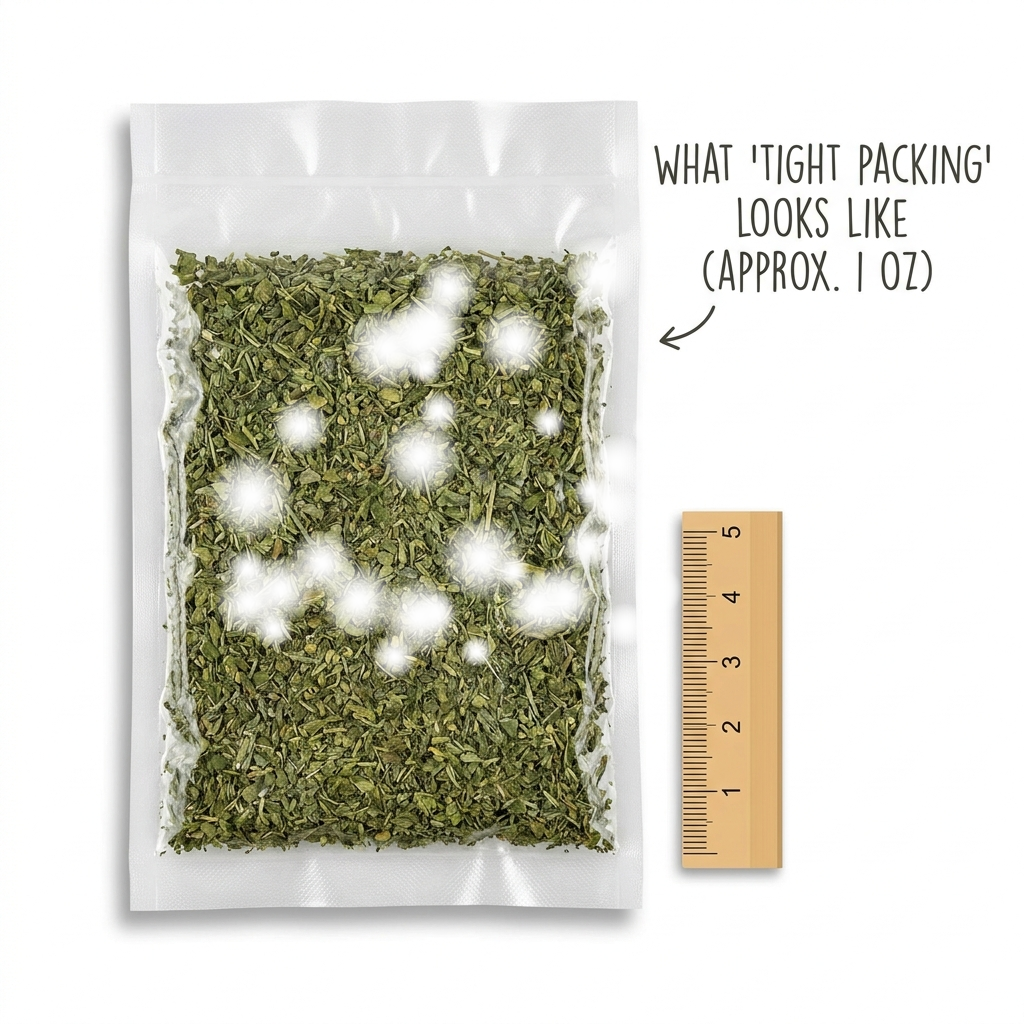
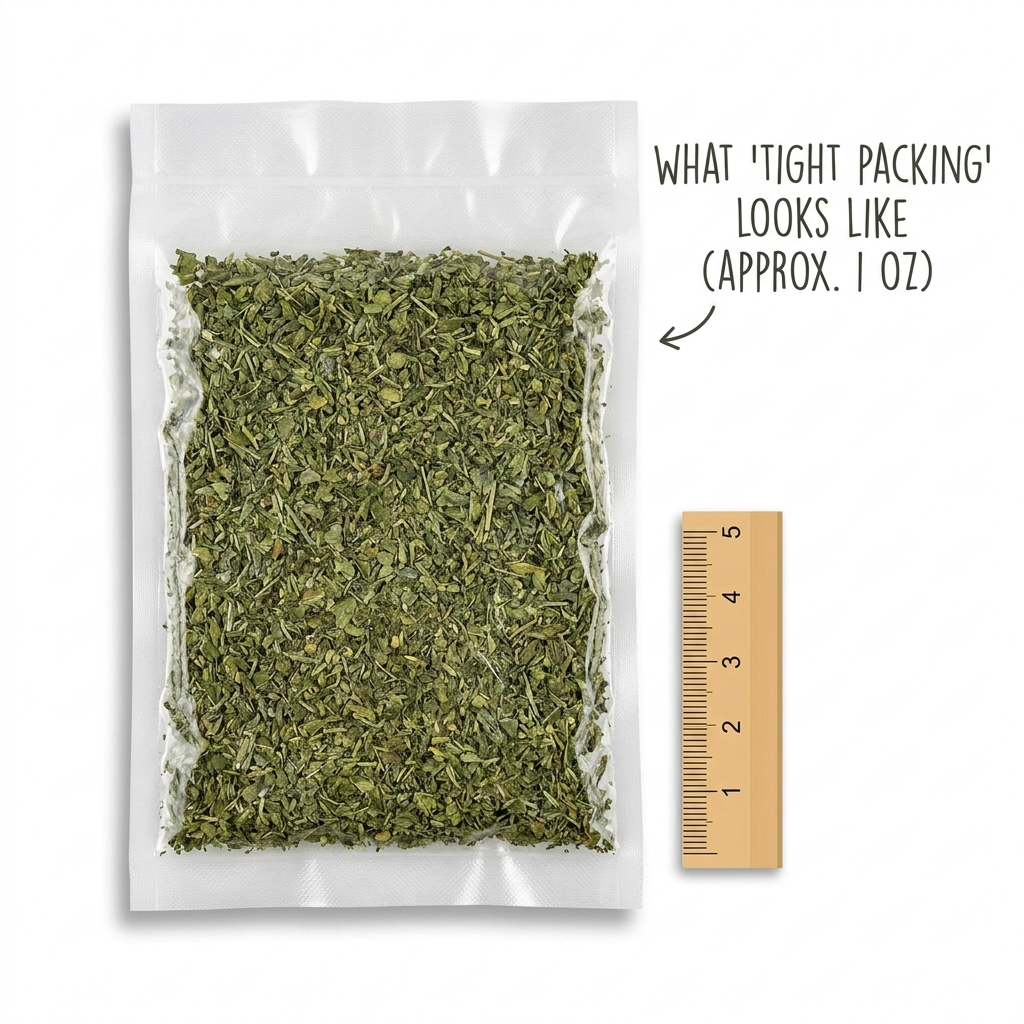
fix(wizard): use single pack image + text-driven variance
The three pack images (loose/medium/tight) couldn't be rendered
visually consistently — AI image-to-image can't do pixel-precise
fill-state subtractions, and the previous programmatic mask still
ended up looking too different from the locked-in tight.

Simplification: ship ONE image (the locked-in 100% fill version) for
all three pack options, byte-identical. The visual variance is now
carried by the captions, which describe each state explicitly:

  - Loose:  "30% fill — material in loose clumps, most of the bag empty"
  - Medium: "85% fill — nearly continuous layer with tiny gaps"
  - Tight:  "100% fill, single flat layer, no visible air gaps"

The wizard's Pack sub-section has a new sentence pointing out that
all three cards show the same reference image, with the difference
described in the captions — so first-timers aren't confused by three
identical-looking cards.

Tests: 807/807. typecheck clean.

diff --git a/src/renderer/src/tabs/FirstTimerGuide.tsx b/src/renderer/src/tabs/FirstTimerGuide.tsx
@@ -65,6 +65,12 @@ import bagSmallVac from 'renderer/src/assets/wizard/bag-small-vac.png'
 import packLoose from 'renderer/src/assets/wizard/pack-loose.png'
 import packMedium from 'renderer/src/assets/wizard/pack-medium.png'
 import packTight from 'renderer/src/assets/wizard/pack-tight.png'
+// All three are the same canonical reference image (byte-identical copies
+// of pack-tight.png). The variance between loose/medium/tight is
+// described in the captions and "why pick this" prose rather than
+// rendered as three different visuals — AI image-to-image couldn't
+// produce visually consistent fill-state variants, so we ship one
+// reference image and let the text do the work.
 import { useAppStore } from 'renderer/src/stores/appStore'
 import {
   calculateTheoreticalMax,
@@ -1104,15 +1110,15 @@ const PACK_OPTIONS: readonly PrepOption[] = [
     label: 'Loose',
     image: packLoose,
     caption:
-      'About 30% fill — most of the bag is empty. Material sits in a few loose clumps with big gaps.',
-    why: 'Avoid this if you can. The air pockets are where decarbing goes uneven.',
+      'The image shows a fully-packed reference. Loose means: the bag is about 30 percent full — material sits in a few loose clumps with most of the bag interior empty.',
+    why: 'Avoid this if you can. The empty space is air, and air is what makes decarbing uneven.',
   },
   {
     id: 'medium',
     label: 'Medium',
     image: packMedium,
     caption:
-      'About 85% fill — nearly continuous single layer with only tiny gaps.',
+      'The image shows a fully-packed reference. Medium means: about 85 percent fill — nearly a single continuous layer with only tiny gaps here and there.',
     why: 'Reasonable default. Press flat with a spatula before sealing.',
   },
   {
@@ -1120,7 +1126,7 @@ const PACK_OPTIONS: readonly PrepOption[] = [
     label: 'Tight',
     image: packTight,
     caption:
-      'About 100% fill, single flat layer. No visible air gaps.',
+      'About 100 percent fill, single flat layer, no visible air gaps. The image is the actual reference.',
     why: 'Best for even conversion. Press flat with a spatula before sealing.',
   },
 ]
@@ -1306,6 +1312,9 @@ function StepPrep({
             Spread the ground cannabis into a single flat layer inside the
             bag. Aim for the tightest pack you can get without compressing
             the material — air pockets are where decarbing goes uneven.
+            The three cards below all show the same fully-packed reference
+            image; the difference between loose / medium / tight is
+            described in each card's caption.
           </p>
           <div className="grid grid-cols-1 gap-3 sm:grid-cols-3">
             {PACK_OPTIONS.map(o => (